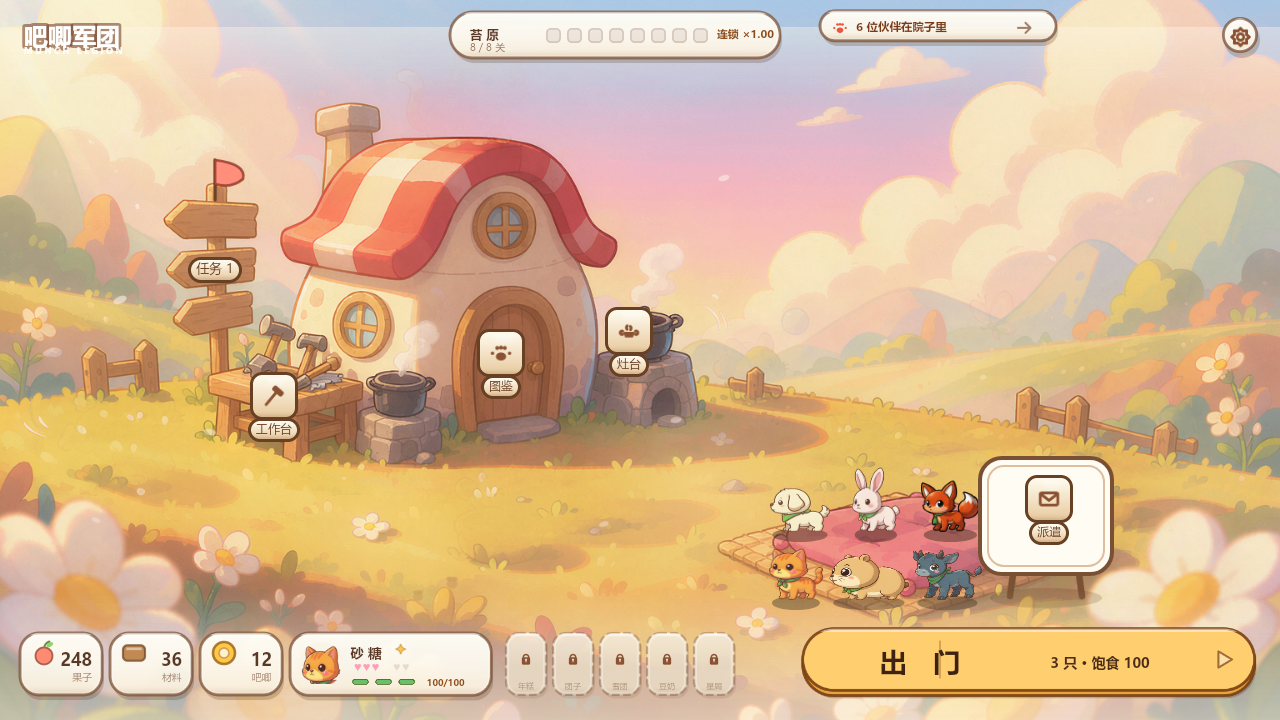
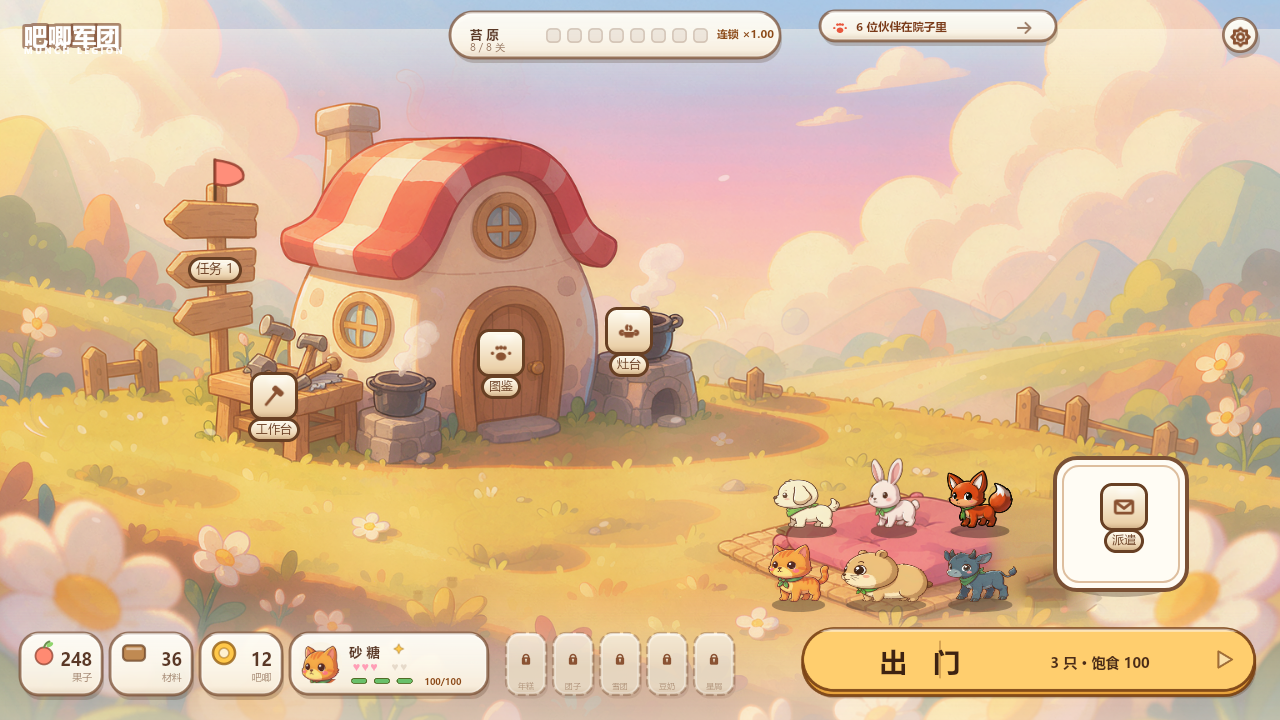
主界面：派遣牌在背景图里右移 75px，宠物可用带宽 209 → 245
牌是**烤在 bg.png 里**的（场景里只有它的热区 Badge-派遣 和标题 Cap-派遣），
所以"挪牌"不是改坐标，是改像素。新增 tools/move-bg-sign.py 做这件事：
颜色掩膜认出牌子（深绿板面 + 深棕木框和腿 + 红图钉，牌面上那三块白纸条靠
从边界灌水填洞补进 mask）→ 先从原图抠出牌 → 原位用**拉普拉斯填充**补草地
→ 贴到右边 → 再把右侧那朵虚化大花从原图取回盖在牌上。

原位修复为什么不能直接用别处的草地整块贴：第一版就是这么干的，结果源块
自带的光斑和暗部被原样搬过去，左上留了个亮黄斑、底部留了一道灰带，比原来
还显眼。改成"解拉普拉斯方程求低频（边界取真实草地像素）+ 从上方草地取
高频纹理"才干净 —— 柔焦草地上，错的是明暗不是细节。

右移 90bg / 上移 40bg（设计 75 / 33），卡在两个硬边上：
· 再右，牌整块埋进右侧那朵虚化大花（花的上沿在 x1425 处已到 y690）；
· 再上，牌就离开"垫子旁边"的语义，飘到草坡上去。
上移是为了让**牌面**（设计 465..531）躲开花的顶沿（535）；腿不用管，
它反正会被卡片盖住。

布局跟着变：
· 可用带 770..979 (209) → 770..1015 (245)
· 宠物高 60 → 66（+10%）
· 两道缝 10 → 17px（+70%）
  缝撑开才是"不挤"的主因，不是把宠物吹大。试到 70 也塞得下（缝剩 10.7），
  但六只会把粉色软垫整个盖住，读起来就成了"坐在草地上" —— 而"在垫子上"
  正是这套排布的前提，所以停在 66。

派遣卡片跟着挪，连带两个问题：
· 牌上移后牌顶到 458.3，卡片顶必须 ≤458 才不漏那道深棕木框；同时底边
  又得接地（590），两头一夹高度只能从 116 加到 132；
· 原来露出的两条腿是故意的"支撑"，但右移之后右腿必然埋进那朵大花，只剩
  一条孤腿比没有腿更怪 —— 所以全盖掉，改用卡片底下一个椭圆投影来说
  "它站在地上"。没有这一笔，卡片就是一块浮在草地上的白贴纸。

场景只改 Badge-派遣 / Cap-派遣 两处 _lpos（x+75，y 按新卡片中心重排），
行尾仍是 LF。

脚本加了幂等保护：检测牌的原位（取左半 1190..1265，右半和新位置重叠会
误判）还有没有绿像素，有就提示先 git checkout。第一版检测区取到 1310，
连新牌一起算进去，重跑时把图又擦了一遍 —— 已修。

验证：_rt-check 58 项全过；HomeRuntime 全量 tsc 零错误；离屏渲染确认
1/2/3/4/5/6 只每一档都居中、前后两排零重叠（后排脚 y528 < 前排头顶 y536）。
**真机没跑过** —— 沙箱起不了 Cocos 预览。

Changed region(s): [[0.5938, 0.6111, 0.9375, 0.8556], [0.2188, 0.8861, 0.4062, 0.9778]]

diff --git a/client/assets/scripts/HomeRuntime.ts b/client/assets/scripts/HomeRuntime.ts
@@ -127,48 +127,58 @@ function paintCard(g: Graphics, w: number, h: number) {
 }
 
 /* --------------------------------------------------------------------------
- * 六只**坐在屋前那块粉色垫子上**（派遣绿牌左边），前后两排、零遮挡
- *
- * 上一版把六只摆在房子正前方 396~606 —— 那不是垫子，是草地中央：
- * 六只挤成一坨、互相挡脸，而旁边真正的垫子和派遣牌一直空着。
+ * 六只**坐在屋前那块粉色垫子上**（派遣牌左边），前后两排、零遮挡
  *
  * 垫子在渲染图里的实际范围（1280×720 一像素等于一个设计单位，直接量）：
  *   木框（含编织边）x 768..1038 / y 495..618
  *   粉色软垫      x 792..1010 / y 498..600
- *   派遣绿牌      x 979..1107 / y 455..575
+ *   派遣绿牌      x 1062..1179 / y 447..566   ← 已右移 75（见下）
  *
- * **右边界必须停在 971**：绿牌是立在垫子右侧的，宠物站上去会挡掉
- * 半个入口（那块绿芯是"派遣"的可点热区）。所以可用带是 770..979，共 209px。
+ * **那张牌是从 bg.png 里搬过去的**（`tools/move-bg-sign.py`）。它原来是烤在
+ * 背景图上的，场景里只有它的点击热区 `Badge-派遣` 和标题 `Cap-派遣`；
+ * 搬完这两个节点跟着一起平移，否则点不中。
+ *
+ * 为什么值得搬：牌原来的左缘在 987，把可用带压到 770..979 = **209px**，
+ * 六只只能缩到 60 高、缝只有 10px。右移 75 之后带子变成 245px：
+ * 宠物能到 66 高（+10%）**而且**两道缝从 10px 变成 17px（+70%）——
+ * "没那么挤"主要是缝撑开换来的，不是靠把宠物吹大。
+ *
+ * 右移量卡在两个硬边上：
+ *   · 再右，牌会整块埋进右侧那朵虚化大花（花的上沿在 x 1425 处已经到 y 690）；
+ *   · 再上，牌就离开"垫子旁边"的语义，飘到草坡上去了。
+ * 所以是 dx=+90px / dy=-40px（bg 像素）。
  * -------------------------------------------------------------------------- */
 const PET_BAND_X = 770;
-const PET_BAND_W = 209;
+const PET_BAND_W = 245;
 
 /**
  * 宠物统一可见高（设计像素）。
  *
- * 60 是**算出来的，不是挑的**：可用带宽 209，最宽的那一排三只
- * （砂糖 49.6 + 团子 76.6 + 豆奶 63，按宽高比折算）合计 189，
- * 剩 20 分给两道缝 —— 每道 10px。H 再大它们就会贴在一起，
- * 而"贴住"和"遮挡"在玩家眼里是同一件事。
+ * 66 是**算出来的，不是挑的**：可用带宽 245，最宽的那一排三只
+ * （砂糖 0.864 + 团子 1.277 + 豆奶 1.053 = 3.194 个身高单位）占 210.8，
+ * 剩 34 分给两道缝 —— 每道 17px，是搬到牌之前（10px）的 1.7 倍。
+ *
+ * 再往上顶到 70 也塞得下（缝剩 10.7），但六只会把粉色软垫整个盖住，
+ * 看上去就成了"坐在草地上"—— 而"在垫子上"正是这次排布的前提。
  */
-const PET_H = 60;
+const PET_H = 66;
 
 /**
- * 后排 / 前排的落脚 y。**差 68 > 宠物高 60，就是零遮挡的全部秘密。**
+ * 后排 / 前排的落脚 y。**差 74 > 宠物高 66，就是零遮挡的全部秘密。**
  *
  * 前后两排不遮挡只有两种办法：横向错开超过半只身宽（垫子放不下六只），
- * 或者纵向错开超过整只身高。这里选后者：610 - 542 = 68 > 60 ——
+ * 或者纵向错开超过整只身高。这里选后者：602 - 528 = 74 > 66 ——
  * 后排的脚落在前排头顶**之上**，两张图在屏幕上不重叠一个像素。
  *
  * 这也是**为什么不能"两排 3+3 对齐"** —— 那样两排 y 只能差 40 左右
  * （再大就顶出垫子后沿/压到 Dock），后排会被前排切掉下半身，
  * 只剩一排脑袋。上一版实测就是这个结果：白兔只剩耳朵。
  */
-const PET_Y_BACK = 532;
-const PET_Y_FRONT = 600;
+const PET_Y_BACK = 528;
+const PET_Y_FRONT = 602;
 
 /** 只解锁 1~3 只时的单排中线（垫子正中） */
-const PET_Y_SOLO = 566;
+const PET_Y_SOLO = 565;
 
 /**
  * 每只立绘的**可见宽高比**（w ÷ h）。
@@ -2374,16 +2384,29 @@ class HomeController {
         const card = new Node('DispatchCard');
         card.parent = badges;
         const box = card.addComponent(UITransform);
-        /* 高 116（不是 79+12=91）：卡片不只是"盖住绿板"，它还要把
-           **派遣徽标（475）+ 文字底牌（到 544）**一起框进去，
-           而且两者都得落在内圈浅描边里面 —— 内圈离边 8px + 2px 线宽，
-           所以上下各让出 13px：460+13=473 ≤ 475，558-13=545 ≥ 544。 */
-        const CW = 132, CH = 116;
+        /* 高 132：不只是"盖住绿板"，还要把 **派遣徽标 + 文字底牌** 框进去
+           （内圈离边 8px + 2px 线宽，所以上下各让 13px），
+           而且**底边要落到地面**（设计 y 590，地面线 598）。
+           116 → 132 是上面那条"腿被盖掉"带来的连锁反应：牌在 bg 里上移 40px 之后
+           牌顶到了 458.3，卡片顶必须 ≤ 458 才不漏深棕边；而底边又得不悬空，
+           两头一夹就只剩 132 这个高度。少 1px 就露边，多 1px 就碰到 Dock。 */
+        const CW = 132, CH = 132;
         box.setContentSize(CW, CH);
         box.setAnchorPoint(0.5, 0.5);
-        card.setPosition(406, -156, 0);
+        /* (406,-156) → (481,-164)：横向跟着 bg.png 里那块牌右移 90px（设计 75），
+           纵向再往下 8px 让底边接地。牌那两条腿是被卡片**盖住**的 —— 本来露腿
+           是为了给卡片一个支撑，但右移之后右腿必然埋进那朵虚化大花，只剩一条
+           孤腿比没有腿更怪，所以干脆全盖掉，改用底下的接地投影来说"它站在地上"。 */
+        card.setPosition(481, -164, 0);
 
         const g = card.addComponent(Graphics);
+        /* 接地投影：只露卡片底边以下的那一截（−CH/2 到 −CH/2−9），
+           画在卡片之前，所以上半截会被卡片本体盖住。
+           没有这一笔，卡片就是一块浮在草地上的白贴纸 —— 和宠物没影子是同一种错。 */
+        g.fillColor = new Color(48, 34, 24, 76);
+        g.ellipse(0, -CH / 2 + 2, CW * 0.34, 9);
+        g.fill();
+
         /* 和资源卡同一套：米白填充 + 深棕粗描边 + 内圈浅描边。
            圆角 22 = 资源卡（89×72，圆角 28）的同一比例：短边的 0.24 倍左右。
            改尺寸的时候圆角必须跟着算，固定 28 会让 108 高的卡看起来"角被啃掉了"。 */

diff --git a/client/tools/move-bg-sign.py b/client/tools/move-bg-sign.py
@@ -1,0 +1,205 @@
+#!/usr/bin/env python
+# -*- coding: utf-8 -*-
+"""把 bg.png 里那块"派遣"绿牌整体右移，给宠物腾出横向位置。
+
+**为什么是个图像脚本而不是改坐标**：那块牌是烤进背景图里的（场景里只有它的
+点击热区 `Badge-派遣` 和标题 `Cap-派遣` 两个节点）。挪它 = 挪像素。
+
+流程（顺序不能换）：
+  1. 在 BOX 内按颜色认出牌（深绿板面 / 深棕木框和腿 / 红图钉），填洞、膨胀；
+  2. **先从原图抠出牌**（后面修复会覆盖原位，抠晚了拿到的是补过的草地）；
+  3. 原位用正上方同宽的草地竖直翻转填回去（做色差补偿 + 8px 模糊 + 噪声）；
+  4. 把抠出的牌贴到 BOX + (DX, 0)，并在两条腿下面补回接地阴影。
+
+跑法：python client/tools/move-bg-sign.py
+幂等性：不幂等（第二次跑会在已修复的图上再抠一次）。改参数前先 git checkout bg.png。
+"""
+import sys
+from collections import deque
+
+import numpy as np
+from PIL import Image, ImageFilter
+
+SRC = 'assets/ui/home/bg.png'
+
+# 牌的可辨识区域（bg 像素，含 3px 余量）。木框实测 1185..1325 / 625..767
+BOX = (1178, 615, 1336, 782)
+# 右移量（bg 像素）。90px ≈ 设计坐标 75。
+# 上限卡在右侧那朵虚化大花上：再往右，牌的两条腿会被花完全吃掉，牌看着像浮空。
+DX = 90
+DY = -40
+
+
+def build_mask(a, box):
+    """BOX 内认出牌：深绿板面 | 深棕木框和腿 | 红图钉。"""
+    l, t, r, b = box
+    sub = a[t:b, l:r].astype(int)
+    R, G, B = sub[:, :, 0], sub[:, :, 1], sub[:, :, 2]
+    green = (G > 80) & (G < 140) & (R > 40) & (R < 110) & (B > 60) & (B < 125) & ((G - R) > 12)
+    wood = (R > 55) & (R < 130) & (G > 30) & (G < 90) & (B < 70) & ((R - G) > 22)
+    red = (R > 150) & (G < 110) & (B < 110) & ((R - G) > 70)
+    return green | wood | red
+
+
+def fill_holes(m):
+    """牌面上那三块白纸条不在颜色阈值里，会被当成"洞"。从边界灌水，剩下的就是洞。"""
+    h, w = m.shape
+    inv = ~m
+    outside = np.zeros_like(m)
+    q = deque()
+    for x in range(w):
+        for y in (0, h - 1):
+            if inv[y, x] and not outside[y, x]:
+                outside[y, x] = True
+                q.append((y, x))
+    for y in range(h):
+        for x in (0, w - 1):
+            if inv[y, x] and not outside[y, x]:
+                outside[y, x] = True
+                q.append((y, x))
+    while q:
+        y, x = q.popleft()
+        for dy, dx in ((1, 0), (-1, 0), (0, 1), (0, -1)):
+            ny, nx = y + dy, x + dx
+            if 0 <= ny < h and 0 <= nx < w and inv[ny, nx] and not outside[ny, nx]:
+                outside[ny, nx] = True
+                q.append((ny, nx))
+    return m | (inv & ~outside)
+
+
+def dilate(m, size):
+    return np.array(Image.fromarray((m * 255).astype(np.uint8)).filter(ImageFilter.MaxFilter(size))) > 127
+
+
+def laplace_fill(patch, mask, iters=500):
+    """在 mask 内解拉普拉斯方程（Jacobi 迭代），边界固定为 mask 外的真实像素。
+
+    得到的是**跟着周围草地渐变走的平滑面**。这是原地修复的关键：单纯把别处的草地
+    整块贴过来，会连着那块的光斑和暗部一起搬过去，在柔焦草地上反而更显眼。
+    """
+    out = patch.astype(np.float32).copy()
+    out[mask] = patch[~mask].reshape(-1, 3).mean(axis=0) if (~mask).any() else 128.0
+    mf = mask.astype(np.float32)[:, :, None]
+    for _ in range(iters):
+        nb = (np.roll(out, 1, 0) + np.roll(out, -1, 0) + np.roll(out, 1, 1) + np.roll(out, -1, 1)) * 0.25
+        out = out * (1 - mf) + nb * mf
+    return out
+
+
+def main():
+    im = Image.open(SRC).convert('RGB')
+    a = np.array(im)
+
+    # 幂等保护：牌原来的位置（取左半 1190..1265 / 650..720）还有没有那块深绿？
+    # 没有就说明这张图已经搬过了，再跑会在补过的草地上再抠一次，越跑越糊。
+    probe = a[650:720, 1190:1265].astype(int)   # 取原牌的**左半**：右半和新位置重叠，会误判成还没搬
+    R, G, B = probe[:, :, 0], probe[:, :, 1], probe[:, :, 2]
+    alive = ((G > 80) & (G < 140) & (R > 40) & (R < 110) & (B > 60) & (B < 125) & ((G - R) > 12)).sum()
+    if alive < 500:
+        print('[sign] 这张 bg.png 已经搬过牌了（原位只剩 %d 个绿像素）。' % alive)
+        print('       要重跑先 git checkout -- assets/ui/home/bg.png')
+        return
+
+    Image.fromarray(a).save('shots/_bg-before.png')     # 对比图用，跑完可以删
+
+    l, t, r, b = BOX
+    bw, bh = r - l, b - t
+
+    m = build_mask(a, BOX)
+    m = fill_holes(m)
+    m = dilate(m, 5)          # 半径 2：吃掉木框外沿的抗锯齿
+
+    # 抠图用**紧**的 mask；修图用膨胀后的 —— 牌腿底下那圈投影不在颜色阈值里，
+    # 只把下半段横向扩开（整条底带一起重画会在草地上留一道横痕，试过）。
+    cut = m.copy()
+    fill = m.copy()
+    lower = m.copy()
+    lower[:int(bh * 0.78), :] = False
+    fill = fill | dilate(lower, 25)
+
+    print('[sign] cut/fill pixels', int(cut.sum()), int(fill.sum()), '/', bw * bh)
+
+    # ---- 1. 先抠牌（alpha 羽化 0.8px） ----
+    alpha = Image.fromarray((cut * 255).astype(np.uint8)).filter(ImageFilter.GaussianBlur(0.8))
+    sign = Image.fromarray(a[t:b, l:r]).convert('RGBA')
+    sign.putalpha(alpha)
+    sign.save('shots/_sign-cut.png')
+
+    # ---- 2. 原位修复 ----
+    patch = a[t:b, l:r].astype(np.float32)
+    # 低频：解拉普拉斯方程（边界取真实草地像素）。这样得到的是跟着草地渐变走的
+    # 平滑面，而不是"一块均匀色" —— 上一版直接用上方草地整块贴，左上留了个亮斑、
+    # 底部留了一道灰带，就是因为源块自带的光斑和暗部被原样搬了过去。
+    low = laplace_fill(patch, fill, iters=500)
+    # 高频：从上方草地取纹理（左移 24px 避开右上角那截栅栏），只取细节不取明暗
+    sy = max(0, t - bh)
+    src = a[sy:t, l - 24:r - 24].astype(np.float32)
+    if src.shape[:2] != patch.shape[:2]:
+        src = a[sy:t, l:r].astype(np.float32)
+    sm = np.array(Image.fromarray(src.astype(np.uint8)).filter(ImageFilter.GaussianBlur(22))).astype(np.float32)
+    tex = src - sm
+    tex = np.roll(tex, (bh // 2, 0), axis=(0, 1))       # 挪半块，避免和上方草地纹理完全接上
+    out_patch = low + tex * 0.5
+    out_patch += np.random.default_rng(7).normal(0, 1.6, out_patch.shape)
+
+    soft = np.array(Image.fromarray((fill * 255).astype(np.uint8)).filter(ImageFilter.GaussianBlur(12))).astype(np.float32) / 255.0
+    soft = np.maximum(soft, fill.astype(np.float32))
+    mixed = out_patch * soft[:, :, None] + patch * (1 - soft[:, :, None])
+    out = a.copy()
+    out[t:b, l:r] = np.clip(mixed, 0, 255).astype(np.uint8)
+
+    # ---- 3. 贴到新位置 ----
+    layer = Image.fromarray(out).convert('RGBA')
+    layer.alpha_composite(sign, (l + DX, t + DY))
+
+    # ---- 4. 补接地阴影：两条腿底下各一个软椭圆 ----
+    shadow = Image.new('RGBA', sign.size, (0, 0, 0, 0))
+    from PIL import ImageDraw
+    d = ImageDraw.Draw(shadow)
+    # 抠图坐标系里腿底约 y=152，两条腿 x≈32 / 140（值随 BOX 走，这里按比例取）
+    foot_y = int(bh * 0.91)
+    for fx in (0.19, 0.80):
+        cx = int(bw * fx)
+        for i in range(9, 0, -1):
+            k = i / 9.0
+            d.ellipse([cx - 20 * k, foot_y - 5 * k, cx + 20 * k, foot_y + 5 * k],
+                      fill=(38, 26, 16, int(26 * (1 - k) + 6)))
+    blur = shadow.filter(ImageFilter.GaussianBlur(4))
+    layer.alpha_composite(blur, (l + DX, t + DY))
+
+    # ---- 5. 前景回贴：那朵虚化大花在镜头前，应该压在牌**上面** ----
+    # 不处理的话牌会"穿过"花瓣 —— 两张图立刻读成不是一个空间。
+    # 从原图取同一位置的花瓣像素盖回来（那块在原图里是干净的：原牌右缘 1325，
+    # 而这块从 1335 起）。用花瓣颜色而非矩形取 mask，否则会连牌的主体一起切掉。
+    fx0 = r - 1
+    fx1 = a.shape[1]                     # 一直取到画面右缘：矩形右边界落在牌上会留一条白竖边
+    fy0 = 630
+    fy1 = min(a.shape[0], 860)
+    if fx1 > fx0 and fy1 > fy0:
+        sub = a[fy0:fy1, fx0:fx1].astype(np.int32)
+        mx = sub.max(2)
+        mn = sub.min(2)
+        petal = (mx > 200) & (sub[:, :, 1] > 180) & (sub[:, :, 2] > 165) & ((mx - mn) < 70)
+        petal = dilate(petal, 15)
+        am = Image.fromarray((petal * 255).astype(np.uint8)).filter(ImageFilter.GaussianBlur(12))
+        fg = Image.fromarray(sub.astype(np.uint8)).convert('RGBA')
+        fg.putalpha(am)
+        layer.alpha_composite(fg, (fx0, fy0))
+        print('[sign] petal fetch-back', int(petal.sum()), 'px')
+
+    # 原图是 RGBA（alpha 全 255）。转成 RGB 视觉无损，但会改文件格式，
+    # Cocos 侧再走一次导入可能生成不同的 .meta —— 保持原样最省事。
+    layer.convert('RGBA').save(SRC)
+    print('[sign] saved', SRC, 'moved dx=%d dy=%d' % (DX, DY))
+
+    # 对比图
+    before = Image.open('shots/_bg-before.png')
+    l2 = (l - 40, t - 30, r + DX + 40, b + 30)
+    cmp = Image.new('RGB', (l2[2] - l2[0], (l2[3] - l2[1]) * 2 + 10), 'white')
+    cmp.paste(before.crop(l2), (0, 0))
+    cmp.paste(layer.convert('RGB').crop(l2), (0, l2[3] - l2[1] + 10))
+    cmp.save('shots/_sign-move-cmp.png')
+
+
+if __name__ == '__main__':
+    main()
